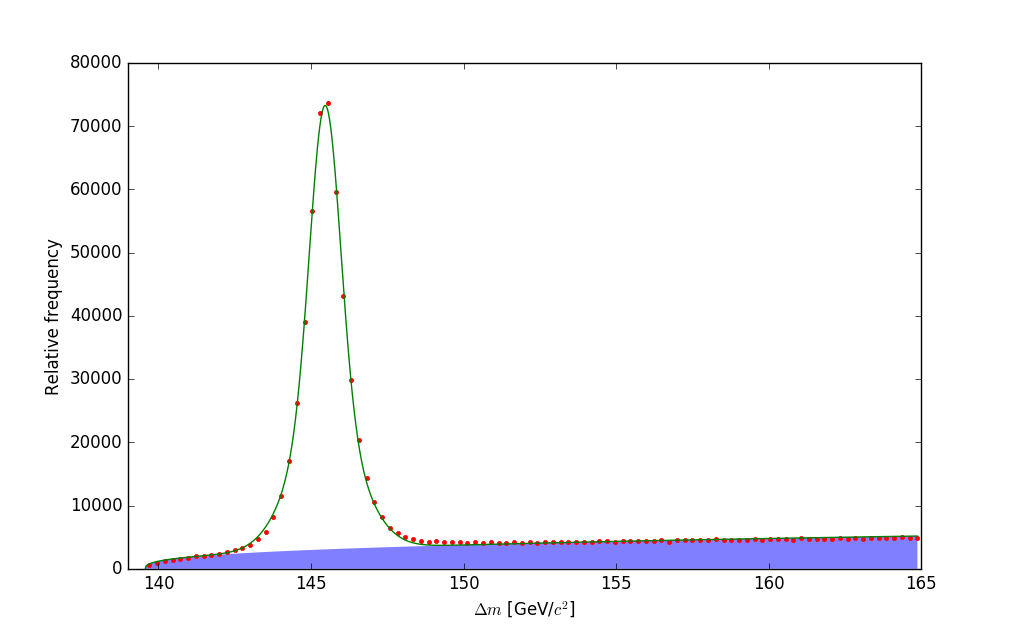
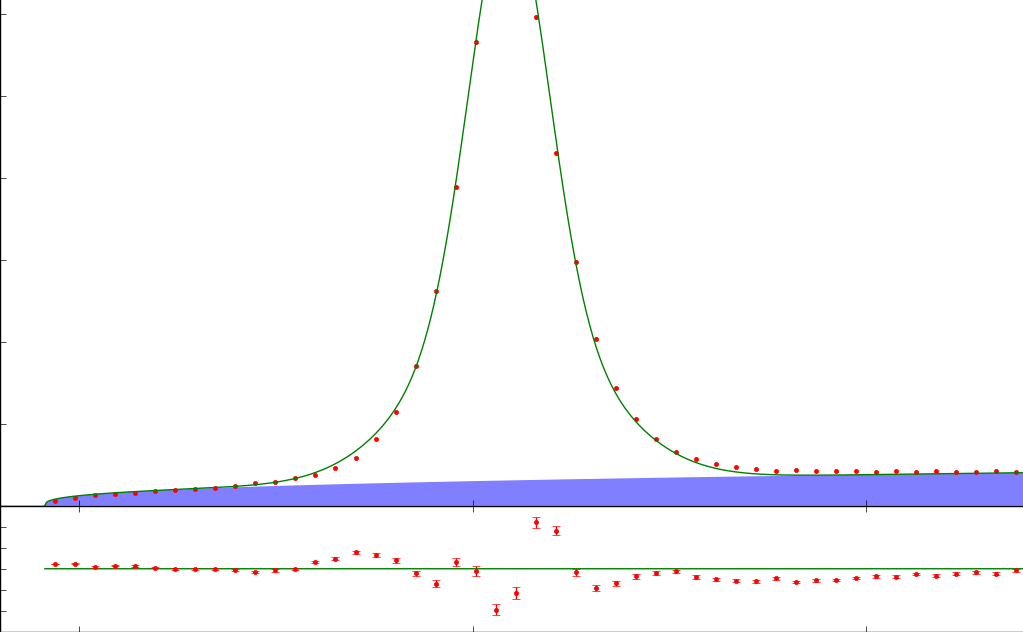
Gaussian resolution estimation using D* decay

diff --git a/Code/Lifetime.py b/Code/Lifetime.py
@@ -55,8 +55,9 @@ def energy_toMeV(p: float):
 # Keep all data about the type together in a type, so vals for an event are stored next to each other on the heap.
 class CandidateEvent(object):
 
-	def __init__(self, interaction: Position, dstarDecay: Position, d0Decay: Position, kp: Momentum, pd: Momentum, ps: Momentum):
+	def __init__(self, interaction: Position, dstarDecay: Position, d0Decay: Position, bDecay: Position, kp: Momentum, pd: Momentum, ps: Momentum):
 		self.interaction = interaction
+		self.bDecay = bDecay
 		self.dstarDecay = dstarDecay
 		self.d0Decay = d0Decay
 		self.kp = kp
@@ -66,6 +67,7 @@ class CandidateEvent(object):
 	def __repr__(self):
 		str = super(CandidateEvent, self).__repr__() + "\n"
 		str += "Dstar_OWNPV\t" + np.array_str(self.interaction) + "\n"
+		str += "B_ENDVERTEX\t" + np.array_str(self.bDecay) + "\n"
 		str += "Dstar_ENDVERTEX\t" + np.array_str(self.dstarDecay) + "\n"
 		str += "D_ENDVERTEX\t" + np.array_str(self.d0Decay) + "\n"
 		str += "K\t\t" + np.array_str(self.kp) + "\n"
@@ -76,6 +78,10 @@ class CandidateEvent(object):
 	@lazy_property.LazyProperty
 	def labFrameTravel(self):
 		return magnitude(self.dstarDecay-self.d0Decay) * 1e-3 # convert mm -> m
+
+	@lazy_property.LazyProperty
+	def dStarlabFrameTravel(self):
+		return magnitude(self.bDecay-self.dstarDecay) * 1e-3 # convert mm -> m
 
 	@lazy_property.LazyProperty
 	def pD0_t(self):
@@ -104,6 +110,16 @@ class CandidateEvent(object):
 	def pDstar(self):
 		pcomps_dstar = self.kp+self.pd+self.ps # in MeV
 		return momentum_toSI(magnitude(pcomps_dstar))
+
+	@lazy_property.LazyProperty
+	def pDstar_comps(self):
+		pcomps_dstar = self.kp+self.pd+self.ps # in MeV
+		return momentum_toSI(pcomps_dstar)
+
+	@lazy_property.LazyProperty
+	def pD0_comps(self):
+		pcomps_dstar = self.kp+self.pd # in MeV
+		return momentum_toSI(pcomps_dstar)
 
 
 	def get_daughterEnergy(self, m_pi_si, m_k_si):
@@ -204,6 +220,17 @@ class CandidateEvent(object):
 		m_d0 = self.reconstructedD0Mass
 		p_d0 = self.pD0
 		return x * m_d0 / p_d0
+# 		x = (self.dstarDecay-self.d0Decay)*1e-3
+# 		m_ds = self.reconstructedD0Mass
+# 		p_ds = self.pD0_comps
+# 		return np.sign(dot(x, p_ds)) * magnitude(x) * m_ds / magnitude(p_ds)
+
+	@lazy_property.LazyProperty
+	def dStarDecayTime(self):
+		x = (self.bDecay-self.dstarDecay)*1e-3
+		m_ds = self.reconstructedDstarMass
+		p_ds = self.pDstar_comps
+		return  magnitude(x) * m_ds / magnitude(p_ds)
 
 
 	@lazy_property.LazyProperty
@@ -269,7 +296,7 @@ def readFile(name: Text):
 
 		# ignore the coordinate, remove the last '_X'/'_PX' part in the header name
         header_raw_names = ['_'.join(name.split('_')[:-1]) for name in header[::3]]
-        order = ['Dstar_OWNPV', 'Dstar_ENDVERTEX', 'D_ENDVERTEX', 'K', 'Pd', 'Ps']
+        order = ['Dstar_OWNPV', 'Dstar_ENDVERTEX', 'D_ENDVERTEX', 'B_ENDVERTEX', 'K', 'Pd', 'Ps']
         print('names', header_raw_names)
         # get the indicies of these params in the row
         elementIdxs = [header_raw_names.index(x) for x in order]
@@ -277,9 +304,9 @@ def readFile(name: Text):
 
         for row in rows:
         	# reshape row into several 3-vectors
-        	nums = [float(x) for x in row]
+        	nums = [float(x) for x in row[:-1]] # remove Dstar_FD ([:-1]) bc scalars don't work
         	data = np.reshape(np.array(nums), (len(nums)//3, int(3)))
-        	cand = CandidateEvent(data[elementIdxs[0]], data[elementIdxs[1]], data[elementIdxs[2]], data[elementIdxs[3]], data[elementIdxs[4]], data[elementIdxs[5]])
+        	cand = CandidateEvent(data[elementIdxs[0]], data[elementIdxs[1]], data[elementIdxs[2]], data[elementIdxs[3]], data[elementIdxs[4]], data[elementIdxs[5]], data[elementIdxs[6]])
         	cands.append(cand)
 
         return cands
@@ -471,16 +498,26 @@ def massDiff_plot(events, ext_name='', fit=True, range=(139, 165), methodName='m
 		po, po_cov = spo.curve_fit(combined_fit, masses, hist, initial, sigma=errors, bounds=(0, [np.inf, np.inf, np.inf, np.inf, 1, 5, np.inf]))
 		print('po-fit', po)
 	
-	fig, ax = newfig()
-	pl.plot(masses, hist, '.r')
-	pl.errorbar(masses, hist, yerr=errors, fmt=',r', capsize=0)
+	fig = newrawfig()
+	subpl_height = .2
+	ax = fig.add_axes([0, subpl_height, default_width, default_width*golden_mean-subpl_height])
+	ax.plot(masses, hist, '.r')
+	ax.errorbar(masses, hist, yerr=errors, fmt=',r', capsize=0)
 	
 	if fit:
 		masses_continuous = np.arange(m_pi, masses[-1], .02)
-		pl.plot(masses_continuous, combined_fit(masses_continuous, *po), '-g')
-# 		pl.plot(masses_continuous, gaussian(masses_continuous, po[2] * po[6], po[4], po[3]), '-k')
-# 		pl.plot(masses_continuous, gaussian(masses_continuous, po[2] * (1-po[6]), po[5], po[3]), '-k')
-		pl.fill_between(masses_continuous, 0, background_fit(masses_continuous, *po[:2]), facecolor='blue', edgecolor="None", alpha=0.5)
+		ax.plot(masses_continuous, combined_fit(masses_continuous, *po), '-g')
+# 		ax.plot(masses_continuous, gaussian(masses_continuous, po[2] * po[6], po[4], po[3]), '-k')
+# 		ax.plot(masses_continuous, gaussian(masses_continuous, po[2] * (1-po[6]), po[5], po[3]), '-k')
+		ax.fill_between(masses_continuous, 0, background_fit(masses_continuous, *po[:2]), facecolor='blue', edgecolor="None", alpha=0.5)
+		
+		frame1 = fig.add_axes([0,0, default_width, subpl_height])
+		frame1.plot(masses_continuous, masses_continuous*0, '-g')
+		frame1.plot(masses, combined_fit(masses, *po)-hist, '.r')
+		frame1.errorbar(masses, combined_fit(masses, *po)-hist, yerr=errors, fmt=',r')
+		frame1.set_xlim(range)
+
+	
 	ax.set_xlim(range)
 	pl.xlabel(r'$\Delta m$ [GeV/$c^2$]')
 	pl.ylabel(r'Relative frequency')

diff --git a/Code/style.py b/Code/style.py
@@ -5,12 +5,13 @@ import matplotlib.pyplot as pl
 
 # http://bkanuka.com/articles/native-latex-plots/
 
-def figsize(scale):
+golden_mean = (np.sqrt(5.0)-1.0)/2.0            # Aesthetic ratio (you could change this)
+
+def figsize(scale, height_adj):
 	fig_width_pt = 370                        # Get this from LaTeX using \the\textwidth
 	inches_per_pt = 1.0/72.27                       # Convert pt to inch
-	golden_mean = (np.sqrt(5.0)-1.0)/2.0            # Aesthetic ratio (you could change this)
 	fig_width = fig_width_pt*inches_per_pt*scale    # width in inches
-	fig_height = fig_width*golden_mean              # height in inches
+	fig_height = fig_width*golden_mean + height_adj              # height in inches
 	fig_size = [fig_width,fig_height]
 	return fig_size
 
@@ -44,9 +45,16 @@ if is_latex:
 
 	# I make my own newfig and savefig functions
 
-	def newfig(width=.7):
+	default_width = .7
+
+	def newrawfig(width=.7, height_adj=0):
 		pl.clf()
-		fig = pl.figure(figsize=figsize(width))
+		fig = pl.figure(figsize=figsize(width, height_adj))
+		return fig
+
+	def newfig(width=.7, height_adj=0):
+		pl.clf()
+		fig = pl.figure(figsize=figsize(width, height_adj))
 		ax = fig.add_subplot(111)
 		return fig, ax
 
@@ -54,11 +62,19 @@ if is_latex:
 		pl.savefig(filename+'.pgf')
 		pl.savefig(filename+'.png')
 else:
-	def newfig(width=2):
+
+	default_width = 2
+
+	def newfig(width=2, height_adj=0):
 		pl.clf()
-		fig = pl.figure(figsize=figsize(width))
+		fig = pl.figure(figsize=figsize(width, height_adj))
 		ax = fig.add_subplot(111)
 		return fig, ax
+
+	def newrawfig(width=2, height_adj=0):
+		pl.clf()
+		fig = pl.figure(figsize=figsize(width, height_adj))
+		return fig
 
 	def savefig(filename):
 		pl.savefig('{}.png'.format(filename))

diff --git a/Code/main.py b/Code/main.py
@@ -33,12 +33,12 @@ bg_hist_normalised = bg_hist/num_bg * bg_fraction * num_events
 subtracted_hist = hist - bg_hist_normalised
 print(subtracted_hist, np.sum(subtracted_hist))
 print(subtracted_hist, np.sum(subtracted_hist))
-errors = [x*.999999 if x <= 1  else np.sqrt(x) for x in subtracted_hist-0.01]
+errors = [x*.9999999999 if x <= 1  else np.sqrt(x) for x in subtracted_hist-.0000000001]
 
 # decay time fitting
-po, po_cov = spo.curve_fit(lambda t, A, tau: A * np.exp(-t/tau), time, subtracted_hist, [num_events, 1.5])
+po, po_cov = spo.curve_fit(lambda t, A, tau: A * np.exp(-t/tau), time, subtracted_hist, [1400, 1.5])
 
-po_conv, po_cov_conv = spo.curve_fit(convoluted_exponential, time, subtracted_hist, [num_events/2, .41, .05, 0.], errors, absolute_sigma=True)
+po_conv, po_cov_conv = spo.curve_fit(convoluted_exponential, time, subtracted_hist, [num_events/2, .41, .61, 0.], errors, absolute_sigma=True)
 
 newfig()
 pl.semilogy(time, hist, '.g')

diff --git a/Code/Resolution.py b/Code/Resolution.py
@@ -1,0 +1,16 @@
+from Cuts import *
+
+times = [d.dStarDecayTime*1e12 for d in filtered]
+
+# print(times)
+print(np.mean(times))
+
+pl.hist(times, 40, range=(0,3), histtype='step', fill=False)
+# sy, _ = np.histogram(times, bins=bin_edges, weights=times)
+# time = np.array([e if n == 0 else t/n for t, n, e in zip(sy, hist, bin_edges[1:])])
+
+# po, po_cov = spo.curve_fit(gaussian, time, hist, [max(hist), .2, 0])
+# pl.plot(time, gaussian(time, *po), '-r')
+
+print('res', po)
+savefig('dstar-decay-time')
